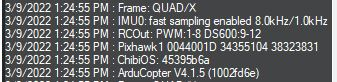
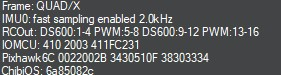
first batch of updates to pwm and dshot

diff --git a/docs/tutorials/pwm_control_flight_controller.rst b/docs/tutorials/pwm_control_flight_controller.rst
@@ -11,61 +11,47 @@ This tutorial is meant to walk you through the process of performing basic setup
 with a flight controller using :ref:`Standard PWM <hobby_standard_pwm>` or :ref:`DSHOT <hobby_dshot>`. This tutorial covers only the basics of testing 
 that the flight controller can spin your modules with the appropriate protocol, and not the setup of any additional flight controller peripherals like an RC controller
 or a GPS. This tutorial takes you from a totally fresh module and flight controller to a :ref:`Standard PWM <hobby_standard_pwm>` or :ref:`DSHOT <hobby_dshot>` controllable module 
-through the flight controller.
+through a flight controller.
 
 This tutorial covers setup and testing on `ArduCopter <https://ardupilot.org/copter/>`_ using `Mission Planner <https://ardupilot.org/planner/>`_ and 
 `PX4 <https://px4.io/>`_ using `QGroundControl <http://qgroundcontrol.com/>`_. It covers using both the :ref:`Standard PWM <hobby_standard_pwm>` and :ref:`DSHOT <hobby_dshot>` 
-protocols, since each setup process is largely similar. In the places where there are differences, the proper steps for both protocols are explained.
+protocols since each setup process is largely similar. In the places where there are differences, the proper steps for both protocols are explained.
 
 These instructions are applicable to any Vertiq module using speed firmware. Though they have different form factors and some different configuration parameters available, 
-the configuration and setup for basic control with Standard PWM or DSHOT is the same for all Vertiq speed modules. This example uses a Vertiq 81-08 for demonstration purposes, 
+the configuration and setup for basic control with Standard PWM or DSHOT is the same for all Vertiq speed modules. This example uses a :ref:`Vertiq 81-08 G2 <vertiq_81xx_family>` for demonstration purposes, 
 but it is not specific to the 81-08.
 
 Hardware Setup
 ==============
-This example uses a Vertiq 81-08 and a Pix32 from Holybro as the flight controller. Since this tutorial is
+This example uses a Vertiq 81-08 G2 and a `Pixhawk 6C <https://docs.holybro.com/autopilot/pixhawk-6c/pixhawk-6c-ports#telem-2-port>`_ as the flight controller. Since this tutorial is
 focused specifically on setting up the Vertiq module, the only additional peripheral that is used along with the flight controller is a safety switch.
 
-The Vertiq 81-08 is powered through its XT-60 connector from a benchtop power supply. For more information on how to properly power your module, refer to its
+The module is powered through its XT-60 connector from a benchtop power supply. For more information on how to properly power your module, refer to its
 family page.
 
 When setting the module's configuration parameters through the Control Center, it should be connected to a PC with a USB-to-UART converter. 
 For more details on how to use the Control Center with a module, refer to :ref:`control_center_start_guide`.
 
-When testing with the flight controller, the pins of the 81-08 must be connected to the
-appropriate output pins of the flight controller. The exact position or labeling of the flight controller's output pins will vary depending on the specific
-hardware you are using. Refer to the flight controller's documentation for more information. The top pin of the 81-08, shown below with a white wire attached to
-it, should be connected to the flight controller's signal output pin sending throttle commands. The bottom pin of the 81-08 should be connected to ground. 
-For this specfic example using a Pix32, the signal pin was attached to MAIN OUT 1 on the Pix32 when using Standard PWM, and AUX OUT 1 when using DSHOT (see the warning below for more details on 
-DSHOT hardware setup).
+When testing with the flight controller, the module's pins must be connected to the flight controller's appropriate output pins. The exact position or labeling of 
+the flight controller's output pins will vary depending on the specific hardware you are using. Refer to your flight controller's documentation for more information. 
+Your module's RX pin should be connected to the flight controller's signal output pin sending throttle commands. 
+Your module's ground connection should be connected with the flight controller's. For this specfic example using a Pixhawk 6C, the signal pin was attached to FMU PWM OUT (AUX OUT) 1 for both 
+standard PWM and DSHOT.
 
 .. warning:: If you are using DSHOT and certain flight controllers, including Pixhawks, **you may need to use a different set of outputs than when using Standard PWM. These outputs may be labeled as AUX or FMU PWM**. 
     This is because not all outputs on all flight controllers support using DSHOT. See the `Mixing ESC Protocols <https://ardupilot.org/copter/docs/common-brushless-escs.html#mixing-esc-protocols>`_ 
-    section of the Arducopter DSHOT setup instructions and the `PX4 DSHOT documentation <https://docs.px4.io/master/en/peripherals/dshot.html#wiring-connections>`_ for more details. 
+    section of the Arducopter DSHOT setup instructions and the `PX4 DSHOT documentation <https://docs.px4.io/main/en/peripherals/dshot.html>`_ for more details. 
     Refer to your flight controller's documentation for details on what protocols its outputs support.
 
-.. figure:: ../_static/tutorial_images/pwm_flight_controller/flight_controller_wires.jpg
-    :align: center
-    :width: 60%
-    :alt: Connection to Flight Controller
-
-    Connection to Flight Controller (White = Signal, Black = Ground)
-
 For more details on the wiring for your module, refer to the module's family page. In the *Communication* section of *Pinout and Connectors*, locate the RX/PWM In 
-pin. This is the PWM/DSHOT input for all Vertiq modules.
+pin. This is the PWM/DSHOT input for all Vertiq modules. In general, connection with your module will look as follows:
 
-Pictures of the full setup with the 81-08 connected to the Pix32 flight controller are shown below.
-
-.. figure:: ../_static/tutorial_images/pwm_flight_controller/hardware_setup.jpg
-    :align: center
-    :width: 50%
-
-    Full 81-08 Hardware Setup
+.. image:: ../_static/tutorial_images/pwm_flight_controller/connect_with_module.png
 
 Firmware and Software Versions
 ==============================
 
-This tutorial was tested with IQ Control Center version 1.3.4. It should also be applicable to future versions of the Control Center, but there
+This tutorial was tested with IQ Control Center version 1.6.0. It should also be applicable to future versions of the Control Center, but there
 may be some slight differences in the number of parameters available on tabs or the exact names of parameters and settings. The version of your Control Center
 can be seen in the Information tab, as shown in the image below. For more information on how to use the Control Center, refer to :ref:`control_center_start_guide`.
 
@@ -74,29 +60,18 @@ can be seen in the Information tab, as shown in the image below. For more inform
 
     Control Center Version
 
-.. warning:: Versions of the Control Center prior to 1.2.6 had bugs that made setting the hobby protocol correctly difficult. Ensure that you have upgraded to version 1.2.6 or later
-    before continuing with this setup.
+.. warning:: 
+  
+    Versions of the Control Center prior to 1.2.6 had bugs that made setting the hobby protocol correctly difficult. Please ensure that you are using the most recent 
+    version of the Control Center for the most up to date features and bug fixes.
 
-
-For module firmware, you can check the firmware version and style on your module by connecting to it with the Control Center and referring to the Information section, as shown in the image below. 
-For more information on how to use the Control Center to check and update firmware, refer to :ref:`control_center_start_guide`. You can check for updated firmware under the `Modules <https://www.vertiq.co>`_ section of the Vertiq website.  
-
-For the Vertiq 81-08, this tutorial was tested using speed firmware version 0.0.7. Future firmware versions should also be compatible, but if you are using an 81-08 it is recommended that your 
-81-08 is on at least version 0.0.7 when following this tutorial. The image below shows the firmware version of the module in Control Center.
-
-.. figure:: ../_static/tutorial_images/pwm_flight_controller/8108_fw_version.png
-    :align: center
-
-    81-08 Firmware Version
-
-.. warning:: Versions of the 81-08 firmware prior to version 0.0.5 had bugs that made calibrating and selecting the hobby protocol difficult. If you are using an 81-08 and are trying to follow
-  this tutorial with a firmware version older than 0.0.5, you may have difficulties selecting the hobby protocol.
+This tutorial is applicable to all Vertiq modules running speed firmware.
 
 Reverting to Defaults (Optional)
 ================================
 
-If you have previously used or set any configurations on the module, it may be useful to revert it to its default state before continuing with this tutorial. This ensures
-that you start with a fresh module, and there should be no lingering conflicts from previous configurations.
+If you have previously changed any configurations on the module, it may be useful to revert it to its default state before continuing with this tutorial. This ensures
+that there will be no lingering conflicts from previous configurations, and this tutorial will work as expected.
 
 To do so, please follow the instructions found at :ref:`reset_to_defaults_manual`.
 
@@ -108,14 +83,15 @@ Module Configuration
      is held in place securely. If the module is unsecured it could move unexpectedly when it starts to spin. 
      This could damage the module, its connectors, or any nearby observers.
 
-Now that the module is set up, you can begin configuring it with Control Center. The General tab and the Tuning tab are the only tabs with parameters that need to be configured.
-If you are unfamiliar with setting parameters through the Control Center, refer to :ref:`control_center_start_guide`.
+.. note::
+  
+  If you are unfamiliar with setting parameters through the Control Center, refer to :ref:`module_config_with_control_center` before completing this section.
 
 General Tab
 ***********
 First, there are a few parameters to set in the General tab. Not all of the parameters in this tab are important, and only the relevant ones are
 highlighted here. If a parameter is not mentioned, you can safely leave it at its default. The correct settings and purpose of each parameter is 
-described in detail in the sections below. **Most parameters are the same in Standard PWM and DSHOT setups, but ones that differ have sections for both setups**:
+described in detail in the sections below. **Most parameters are the same in Standard PWM and DSHOT setups, but ones that differ have sections for both protocols**:
 
 Communication
 ##############
@@ -124,13 +100,35 @@ which can be selected from the drop-down box. Once the module receives a command
 not be able to connect with Control Center until you power cycle the module. For example, if the module receives a PWM message when it is set to accept them, it will only listen to PWM messages until it is restarted. 
 If left in Autodetect mode, the module listens for all of the supported Hobby protocols to try to determine which one you are using. 
 
-Depending on the flight controller's configurations and noise on the communication lines, the module may have difficulty automatically discovering the protocol. 
+The communication parsing process is summarized by the following:
+
+.. list-table:: Communication Parsing Processes
+   :class: borderless
+   :align: center
+
+   * - .. figure:: ../_static/tutorial_images/pwm_flight_controller/overall_comms_flow.png
+            :align: center
+            :height: 700px
+
+            Overall communication parsing process
+     - .. figure:: ../_static/tutorial_images/pwm_flight_controller/iquart_process.png
+            :align: center
+            :height: 700px
+
+            IQUART parsing process
+     - .. figure:: ../_static/tutorial_images/pwm_flight_controller/process_hobby_in.png
+            :align: center
+            :height: 700px
+
+            Hobby input parsing process
+
+
+Depending on the flight controller's configurations and noise on the communication lines, the module may have difficulty automatically discovering the protocol while using autodetection. 
 In these cases, it is best to set the module to only listen for a specific type of protocol. As such, we will explicitly set the hobby protocol 
 to use in this setup. The proper value for this configuration depends on if you are using :ref:`Standard PWM <hobby_standard_pwm>` or :ref:`DSHOT <hobby_dshot>`:
 
-  * **Standard PWM Setup**: Set *Communication* to *Standard PWM* to receive :ref:`Standard PWM <hobby_standard_pwm>` messages in version 1.2.6 and later of the Control Center. In Version 1.2.5 and earlier, you will need to select OneShot125
-    due to a Control Center bug. See the bug warning below for details.
-  * **DSHOT Setup**: Set *Communication* to *DSHOT600* to receive :ref:`DSHOT <hobby_dshot>` messages in version 1.2.6 and later of the Control Center. In Version 1.2.5 and earlier, you will need to select DSHOT1200 due to a Control Center bug. See the bug warning below for details.
+  * **Standard PWM Setup**: Set *Communication* to *Standard PWM* to receive :ref:`Standard PWM <hobby_standard_pwm>` messages
+  * **DSHOT Setup**: Set *Communication* to *DSHOT600* to receive :ref:`DSHOT <hobby_dshot>` messages
 
 The image below shows what the *Communication* parameter should look like in Control Center for a Standard PWM setup.
 
@@ -248,6 +246,11 @@ Manual. For more information on arming and disarming the module, refer to the :r
 
 If the module is spinning as expected, set the *Coast* parameter to stop the module. With your module configured to spin, you must now set up your flight controller to send proper commands.
 
+.. note::
+
+  You can find another full module configuration example for Velocity mode at :ref:`flight_controller_config_with_control_center`.
+
+
 Ardupilot and Mission Planner Configuration and Testing
 =======================================================
 This tutorial was tested using Mission Planner 1.3.80 and ArduCopter v4.5.5, as shown in the figure below. These instructions assume you are starting from the default parameters, and cover how to test that the
@@ -257,6 +260,11 @@ flight controller and module can communicate with no additional flight controlle
     :align: center
 
     Mission Planner and Arducopter Version
+
+In order to reset your flight controller to default settings with Mission Planner, navigate to "Config," open "Full Parameter List," 
+and on the right side, locate *Reset to Default* outlined in red below. Click this, and then follow the directions on the windows that appear.
+
+.. image:: ../_static/tutorial_images/pwm_flight_controller/mp_reset_to_default.png
 
 Setting Frame Type
 ******************
@@ -329,12 +337,14 @@ Reboot your flight controller to make sure the new parameters take effect. The i
 
 Re-Configuring ArduCopter DSHOT Outputs
 #######################################
-.. note:: Only needed on some flight controllers, see the `ArduCopter <https://ardupilot.org/copter/docs/common-brushless-escs.html#mixing-esc-protocols>`_ and `PX4 <https://docs.px4.io/master/en/peripherals/dshot.html#wiring-connections>`_ documentation for more details on which
+.. note:: 
+  
+  Only needed on some flight controllers, see the `ArduCopter <https://ardupilot.org/copter/docs/common-brushless-escs.html#mixing-esc-protocols>`_ and `PX4 <https://docs.px4.io/main/en/peripherals/dshot.html>`_ documentation for more details on which
 
 Depending on the type of flight controller hardware you have, you may need to re-configure which outputs you are using to a DSHOT compatible output. 
 The reason for this and the types of flight controllers it affects are discussed in `Mixing ESC Protocols <https://ardupilot.org/copter/docs/common-brushless-escs.html#mixing-esc-protocols>`_ 
-and in this `Ardupilot forum post <https://discuss.ardupilot.org/t/flight-controllers-dshot-and-escs/53608>`_. This issue applies to the Pix32 that was used for this tutorial, and also
-applies to the popular Cube Orange flight controller.
+and in this `Ardupilot forum post <https://discuss.ardupilot.org/t/flight-controllers-dshot-and-escs/53608>`_. This issue applies to the Pixhawk 6C that was used for this tutorial, and also
+applies to the popular Cube Orange flight controller. 
 
 For affected flight controllers, their main outputs can transmit PWM, but not DSHOT. One way to check for this issue is to check the "Messages" section of the "Data" tab in Mission Planner on reboot.
 This will display what kinds of protocols are actually going to be output on each pin based on the configuration. Set your flight controller for DSHOT as discussed above, reboot it, connect to it,
@@ -346,19 +356,12 @@ a DSHOT compatible output instead.
 
     Message Showing Outputs are PWM Only
 
-To do so, move the module from a main output to an AUX output (these may also be labeled as FMU PWM outputs). For the Pix32 used to test this example, the module was moved from MAIN OUT 1 to AUX OUT 1. 
-Exactly which pins to use and how they are labeled will vary depending on your flight controller. Refer to the flight controller's documentation for more information. Newer Pixhawk models may label these
-outputs as FMU PWM OUT instead of AUX OUT. The physical connection of the signal and ground wire to the flight controller for the Pix32 is shown below.
-
-.. figure:: ../_static/tutorial_images/pwm_flight_controller/dshot_aux.jpg
-    :align: center
-    :width: 60%
-
-    Connecting to AUX OUT 1
+To do so, move the module from a main output to an AUX output (these may also be labeled as FMU PWM outputs). For the Pixhawk used to test this example, the module was moved from FMU PWM OUT (MAIN OUT) 1 to I/O PWM OUT (AUX OUT) 1. 
+Exactly which pins to use and how they are labeled will vary depending on your flight controller. Refer to the flight controller's documentation for more information.
 
 Next, you need to tell ArduCopter to use AUX OUT 1 (or the equivalent pin on your flight controller) as the output for Motor 1 on your vehicle. ArduCopter uses SERVOX_FUNCTION variables to assign a function to each
-output. For the Pix32, AUX OUT 1 is controlled by SERVO9_FUNCTION. **Set SERVO9_FUNCTION = 33 to output the throttle commands for Motor 1 on AUX OUT 1.** See the `ArduCopter documentation <https://ardupilot.org/copter/docs/parameters.html>`_ for details on what
-settings to use for different functions. The figure below shows the proper setting for this parameter to assign DSHOT to AUX OUT 1 on the Pix32.
+output. For the Pixhawk, AUX OUT 1 is controlled by SERVO9_FUNCTION. **Set SERVO9_FUNCTION = 33 to output the throttle commands for Motor 1 on AUX OUT 1.** See the `ArduCopter documentation <https://ardupilot.org/copter/docs/parameters.html>`_ for details on what
+settings to use for different functions. The figure below shows the proper setting for this parameter to assign DSHOT to AUX OUT 1 on the Pixhawk 6C.
 
 .. figure:: ../_static/tutorial_images/pwm_flight_controller/mp_servo9.JPG
     :align: center
@@ -379,14 +382,14 @@ controller, then you can move on to testing the module. **If you do not have a s
 for a safety switch**.
 
 The `ArduCopter documentation <https://ardupilot.org/copter/docs/common-safety-switch-pixhawk.html>`_ provides details on how to configure the safety switch. To disable the switch,
-Set **BRD_SAFETYENABLE (also called BRD_SAFETY_DEFLT on newer firmwares) to 0**. The image below shows BRD_SAFETYENABLE set to this value in Mission Planner. If your module is
+Set **BRD_SAFETY_DEFLT (also called BRD_SAFETYENABLE on older firmwares) to 0**. The image below shows BRD_SAFETY_DEFLT set to this value in Mission Planner. If your module is
 powered on and attached to the flight controller when you change this parameter, you may hear the module arm. That is because the flight controller will begin sending 0% throttle commands
 on its outputs once this is changed.
 
 .. figure:: ../_static/tutorial_images/pwm_flight_controller/mp_brd_safety.png
     :align: center
 
-    Disabling the Safety Switch with the BRD_SAFETYENABLE Parameter
+    Disabling the Safety Switch with the BRD_SAFETY_DEFLT Parameter
 
 Testing the Module with Mission Planner
 *****************************************
@@ -403,9 +406,9 @@ Now we can use Mission Planner's built-in motor testing tools to make sure the f
 
     Motor Test Screen in Mission Planner
 
-4. Power on the module and wait for it to complete its startup song.
+4. Power on the module and wait for it to complete its :ref:`startup song <startup_song>`.
 
-  * If you have disabled the safety switch and are using Standard PWM, the module should play its arming song after startup when attached to the flight controller.
+  * If you have disabled the safety switch and are using Standard PWM, the module should play its :ref:`arming song <arming_song>` after startup when attached to the flight controller.
 
 5. Arm your safety switch if you have one.
    

diff --git a/docs/control_center_docs/speed_module_getting_started.rst b/docs/control_center_docs/speed_module_getting_started.rst
@@ -60,11 +60,11 @@ DroneCAN Configuration
 Some Vertiq speed modules provide support for the :ref:`DroneCAN protocol <dronecan_protocol>`.  Refer to your module's family page to see if this feature is supported. 
 Your module's DroneCAN node configuration is available through the Control Center, and is covered in detail :ref:`here <dronecan_fc_tutorial>`.
 
+.. _flight_controller_config_with_control_center:
+
 *******************************************************************************************
 Example Module Flight Controller Configuration and ESC Testing with the Control Center
 *******************************************************************************************
-
-.. _flight_controller_config_with_control_center:
 
 Configuration
 ===================

diff --git a/docs/control_center_docs/control_center_start_guide.rst b/docs/control_center_docs/control_center_start_guide.rst
@@ -389,6 +389,8 @@ An example of the identification song is shown below.
     </style>
     <video class='center_vid' controls><source src="../_static/control_center_pics/indication_song.mp4" type="video/mp4"></video>
 
+.. _module_config_with_control_center:
+
 ***********************************************
 Module Configuration with IQ Control Center
 ***********************************************
